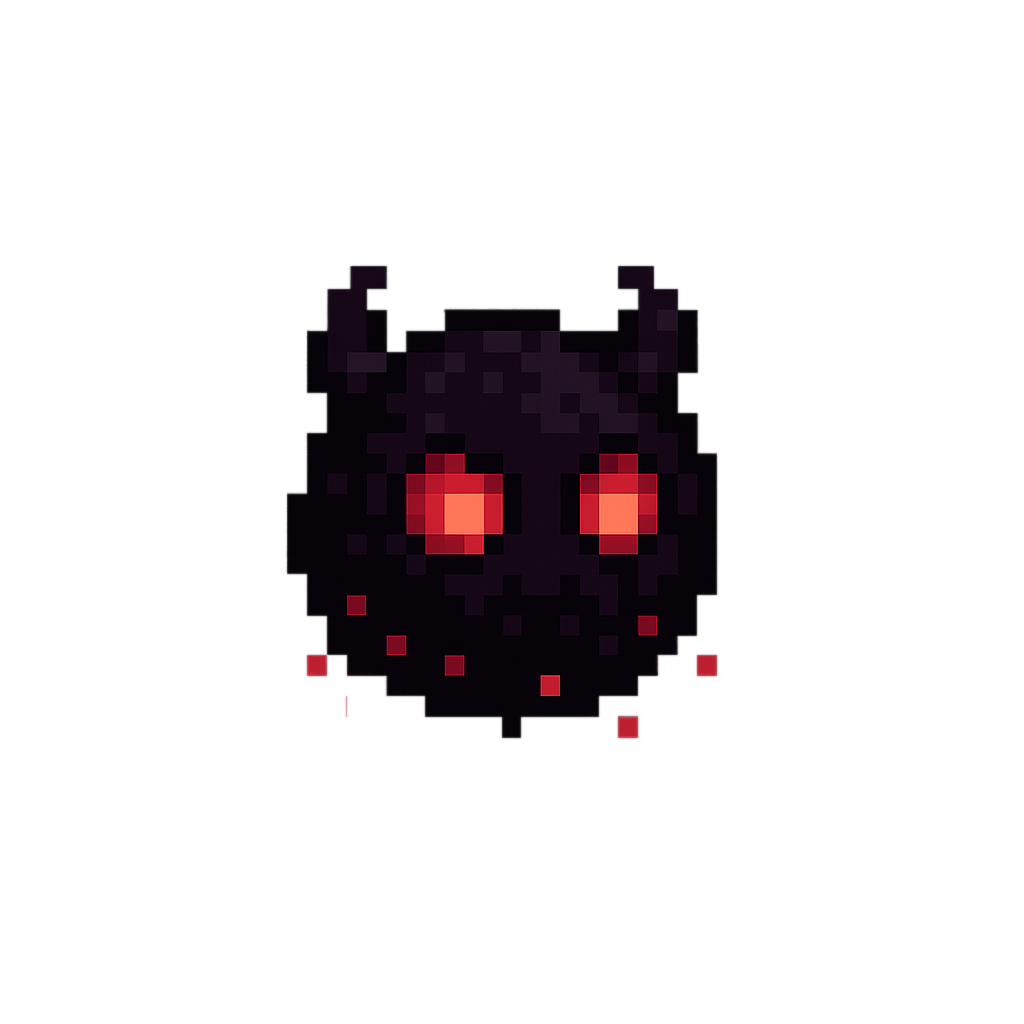
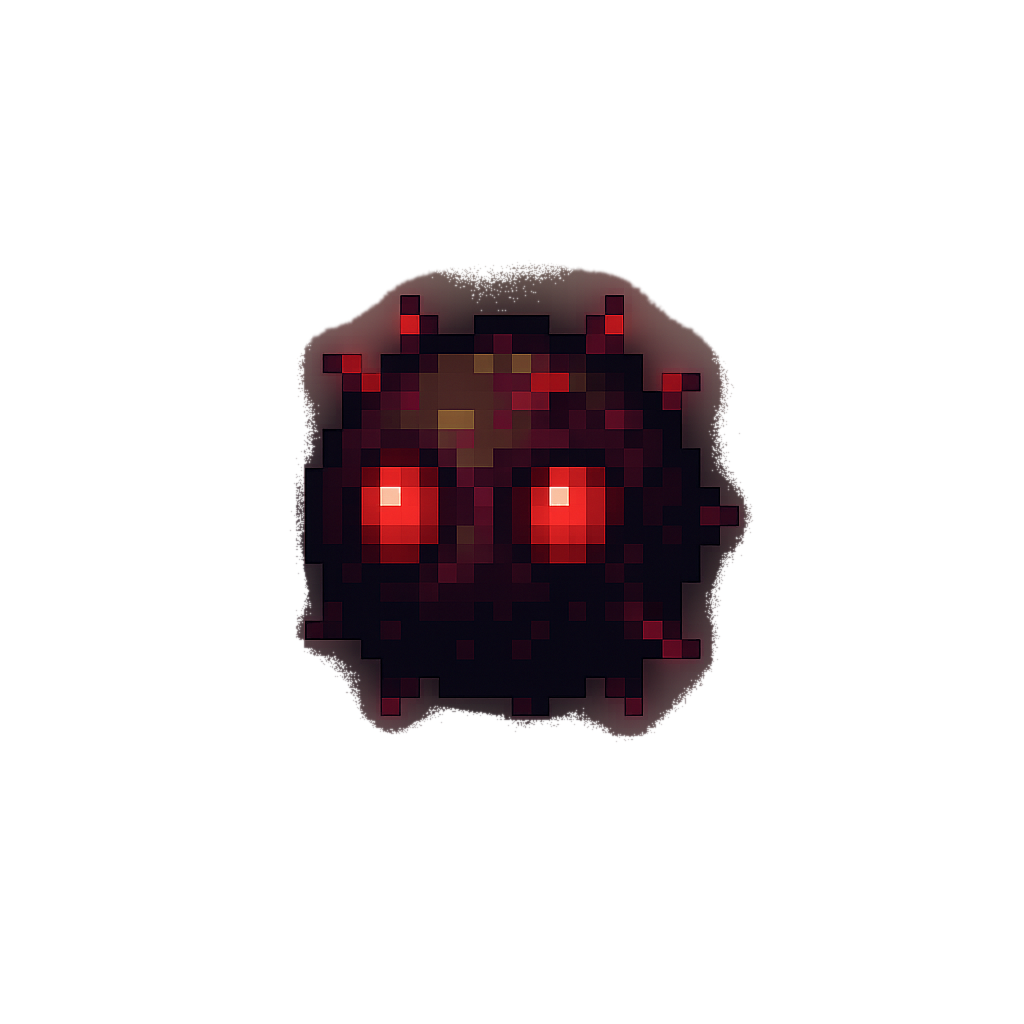
Loop: cleaner sludgeling (bold outline, dehaloed, glowing eyes)

Changed region(s): [[0.2812, 0.25, 0.75, 0.7188]]

diff --git a/tools/assetgen.py b/tools/assetgen.py
@@ -48,9 +48,11 @@ FROG = (
     "cream-colored underbelly, soft warm rim light from nearby lotus glow"
 )
 SLUDGELING = (
-    "The Sludgeling, first enemy: a small round creature made entirely of translucent green swamp "
-    "sludge, with tiny bubbles, floating algae, bits of mud and glowing spores visible suspended "
-    "INSIDE its jelly body, two large bright glowing eyes, wet and jiggly, adorable but eerie"
+    "The Sludgeling, first enemy: a small round creature made entirely of translucent glowing "
+    "green swamp sludge, with tiny bubbles, floating algae, bits of mud and glowing spores clearly "
+    "visible suspended INSIDE its jelly body, two large bright glowing yellow-green eyes, tiny "
+    "stubby feet, wet and jiggly, adorable but eerie, a CLEAN BOLD DARK OUTLINE around the whole "
+    "shape, strong readable silhouette (NO pink, NO magenta anywhere)"
 )
 REEDSWORD = (
     "The Reed Sword: a primitive handcrafted sword forged from hardened swamp reeds, hilt wrapped "
